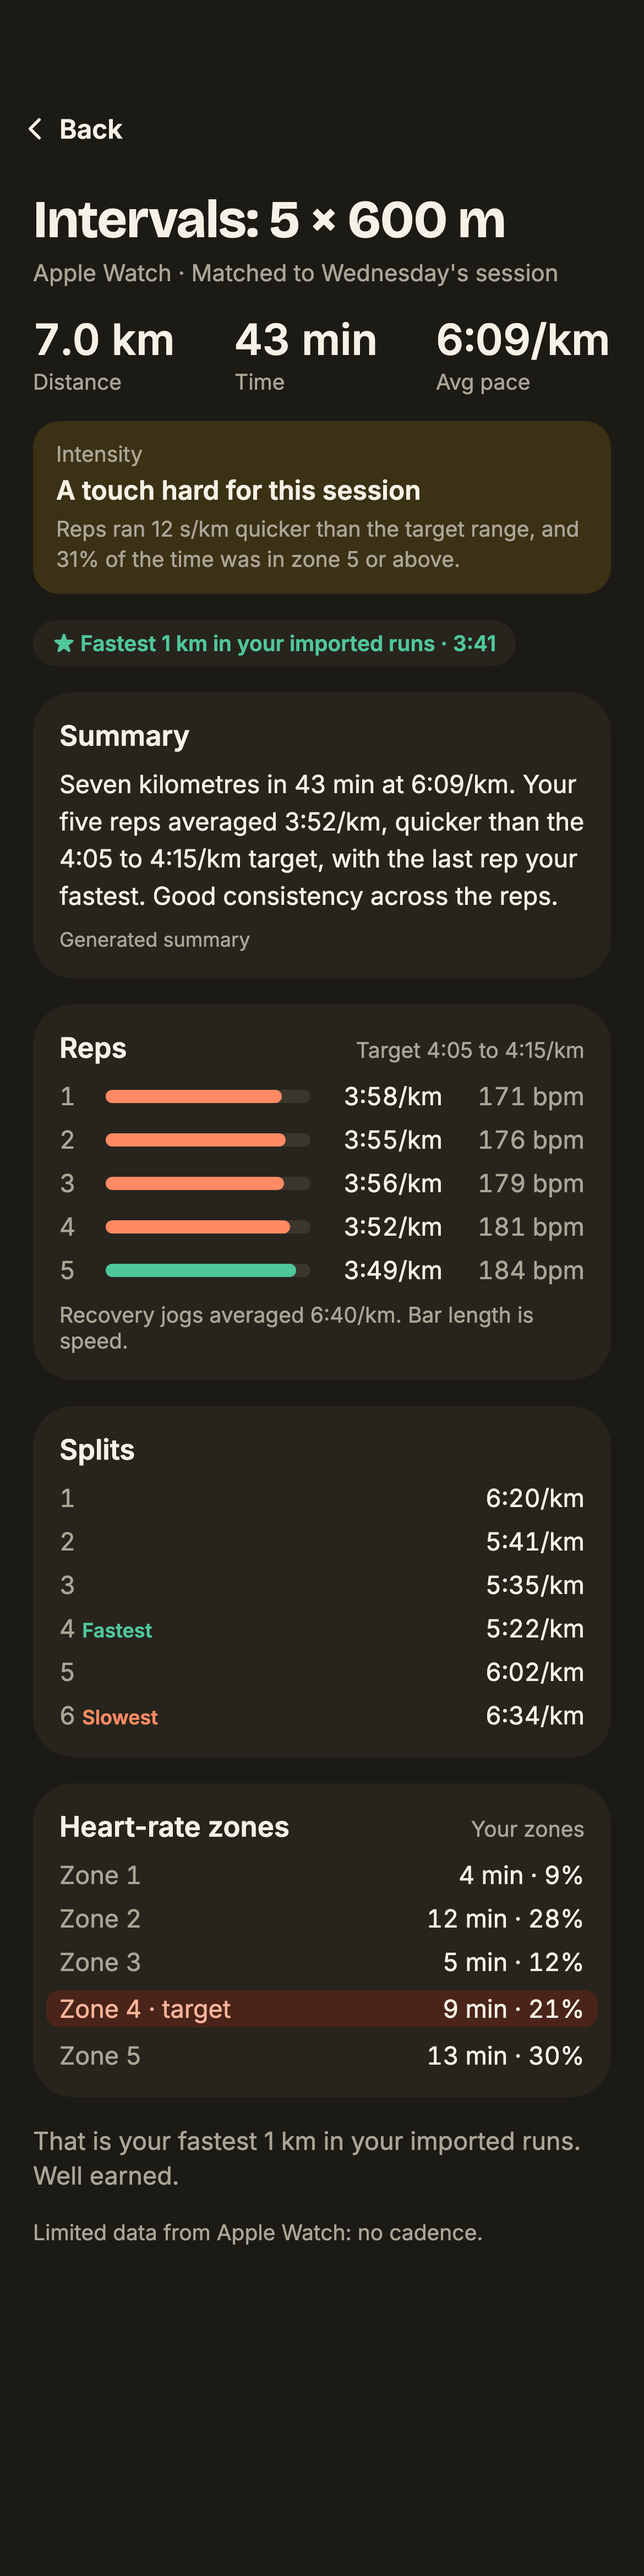
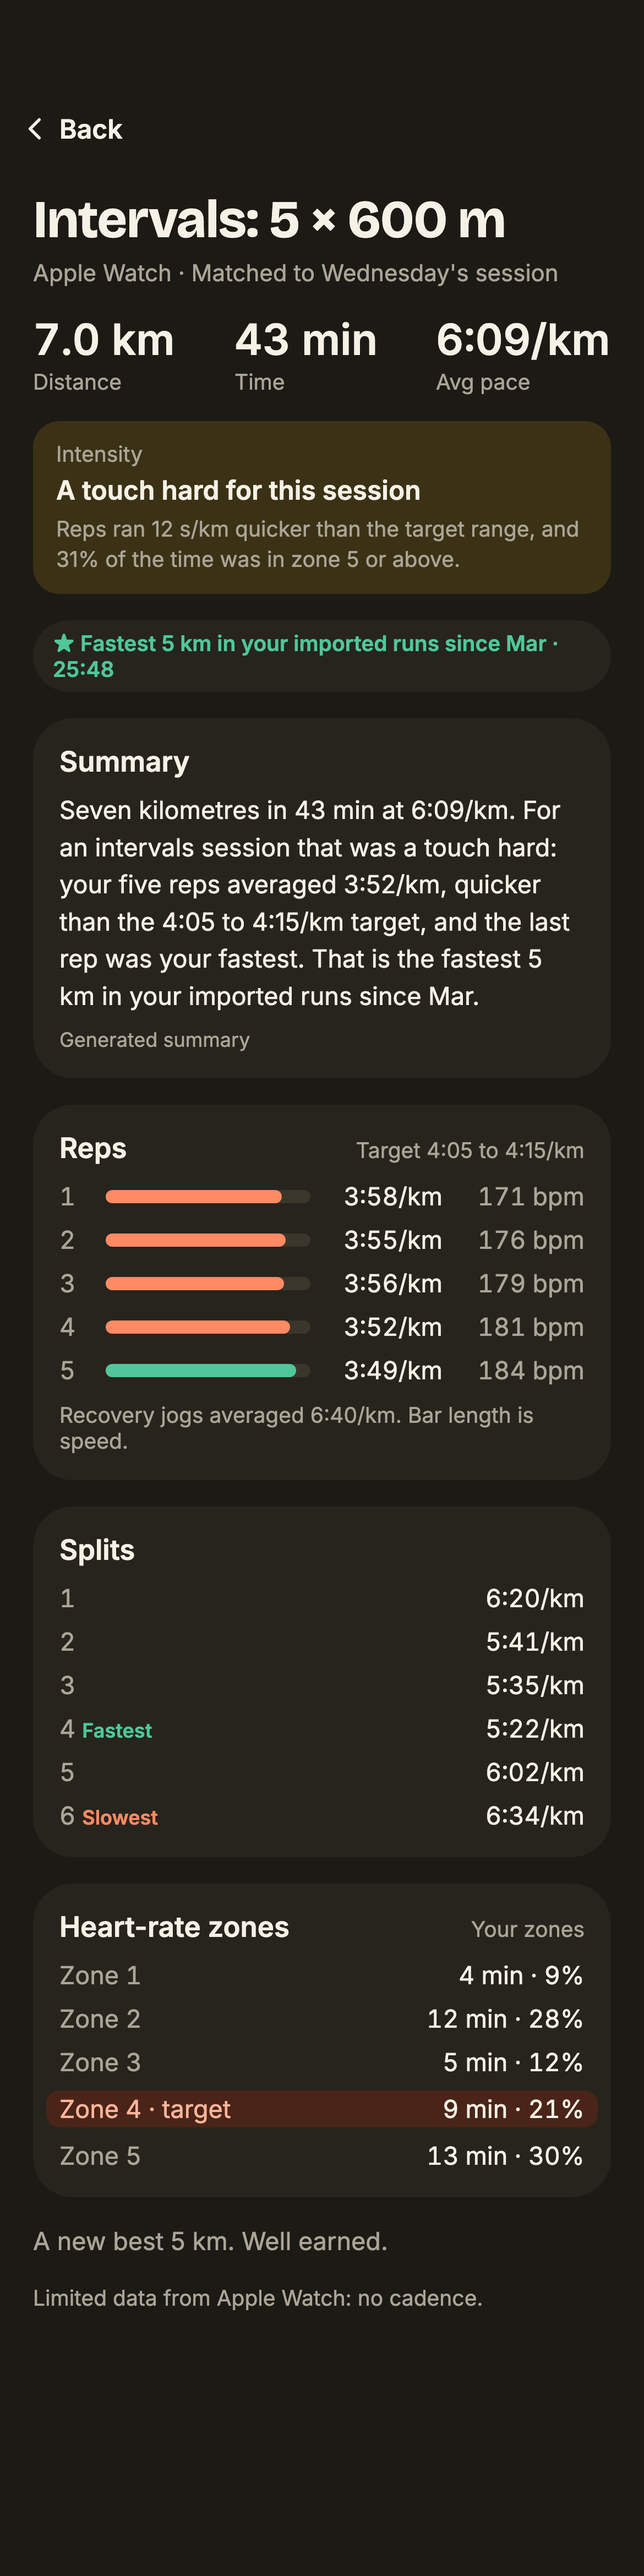
Design: PB chip is a whole-run 5 km best; paragraph words the verdict (Refs #164)

Changed region(s): [[0.0615, 0.2496, 0.9231, 0.8735], [0.3385, 0.6863, 0.4308, 0.7175]]

diff --git a/designs/dark/DK-RunDetails.dc.html b/designs/dark/DK-RunDetails.dc.html
@@ -30,22 +30,22 @@ a{text-decoration:none;color:inherit}
     <div style="flex:1;display:flex;flex-direction:column;gap:2px"><span style="font-size:26px;font-weight:700;font-variant-numeric:tabular-nums">6:09/km</span><span style="font-size:13px;color:var(--muted)">Avg pace</span></div>
   </div>
 
-  <!-- NEW: verdict line. Fixed phrase picked by the server, with its reason. Green on target, amber when off. -->
+  <!-- NEW: verdict line (server label from a fixed list, with its reason). The paragraph below words the verdict itself from a checked word list. Green on target, amber when off. -->
   <div style="background:var(--amber-soft);border-radius:16px;padding:12px 14px;display:flex;flex-direction:column;gap:4px">
     <span style="font-size:13px;color:var(--muted)">Intensity</span>
     <span style="font-size:16px;font-weight:600;line-height:1.3">A touch hard for this session</span>
     <span style="font-size:13px;color:var(--muted);line-height:1.4">Reps ran 12 s/km quicker than the target range, and 31% of the time was in zone 5 or above.</span>
   </div>
 
-  <!-- NEW: PB chip row, shown only when the facts back it -->
+  <!-- NEW: PB chip row, shown only when the facts back it. Whole runs within 10% of 5 / 10 / half / marathon, time scaled down to the distance; 'since' names the month the imported history starts. -->
   <div style="display:flex;gap:8px;flex-wrap:wrap">
-    <span style="background:var(--card);border-radius:999px;padding:6px 12px;font-size:13px;font-weight:600;color:var(--green);display:inline-flex;align-items:center;gap:6px">★ Fastest 1 km in your imported runs · 3:41</span>
+    <span style="background:var(--card);border-radius:999px;padding:6px 12px;font-size:13px;font-weight:600;color:var(--green);display:inline-flex;align-items:center;gap:6px">★ Fastest 5 km in your imported runs since Mar · 25:48</span>
   </div>
 
   <!-- Existing: written summary card (#132) -->
   <section style="background:var(--card);border-radius:24px;padding:16px;display:flex;flex-direction:column;gap:8px">
     <h2 style="margin:0;font-size:17px;font-weight:600">Summary</h2>
-    <p style="margin:0;font-size:15px;line-height:1.5">Seven kilometres in 43 min at 6:09/km. Your five reps averaged 3:52/km, quicker than the 4:05 to 4:15/km target, with the last rep your fastest. Good consistency across the reps.</p>
+    <p style="margin:0;font-size:15px;line-height:1.5">Seven kilometres in 43 min at 6:09/km. For an intervals session that was a touch hard: your five reps averaged 3:52/km, quicker than the 4:05 to 4:15/km target, and the last rep was your fastest. That is the fastest 5 km in your imported runs since Mar.</p>
     <span style="font-size:12px;color:var(--muted)">Generated summary</span>
   </section>
 
@@ -88,7 +88,7 @@ a{text-decoration:none;color:inherit}
   </section>
 
   <!-- NEW: encouragement, a fixed phrase backed by a fact; absent when nothing real to say or when pain is flagged -->
-  <p style="margin:0;font-size:15px;line-height:1.4;color:var(--muted)">That is your fastest 1 km in your imported runs. Well earned.</p>
+  <p style="margin:0;font-size:15px;line-height:1.4;color:var(--muted)">A new best 5 km. Well earned.</p>
 
   <span style="font-size:13px;color:var(--muted)">Limited data from Apple Watch: no cadence.</span>
 </div>
